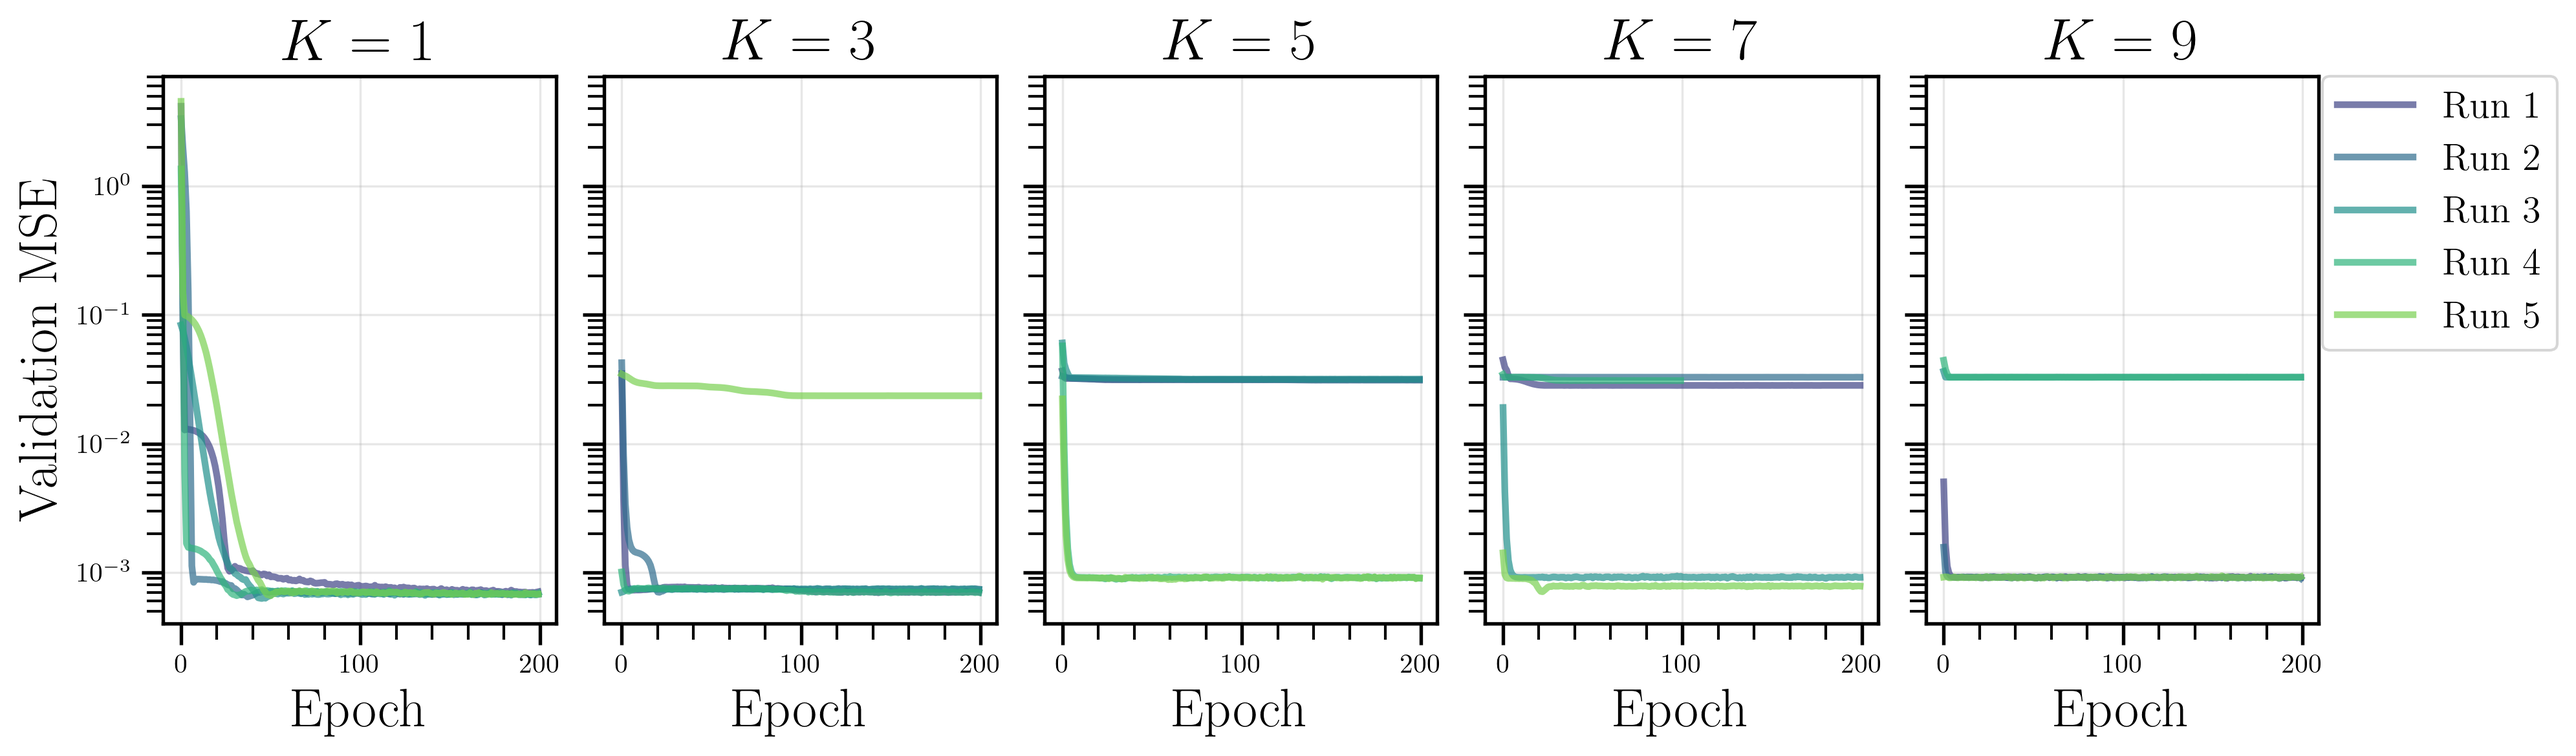
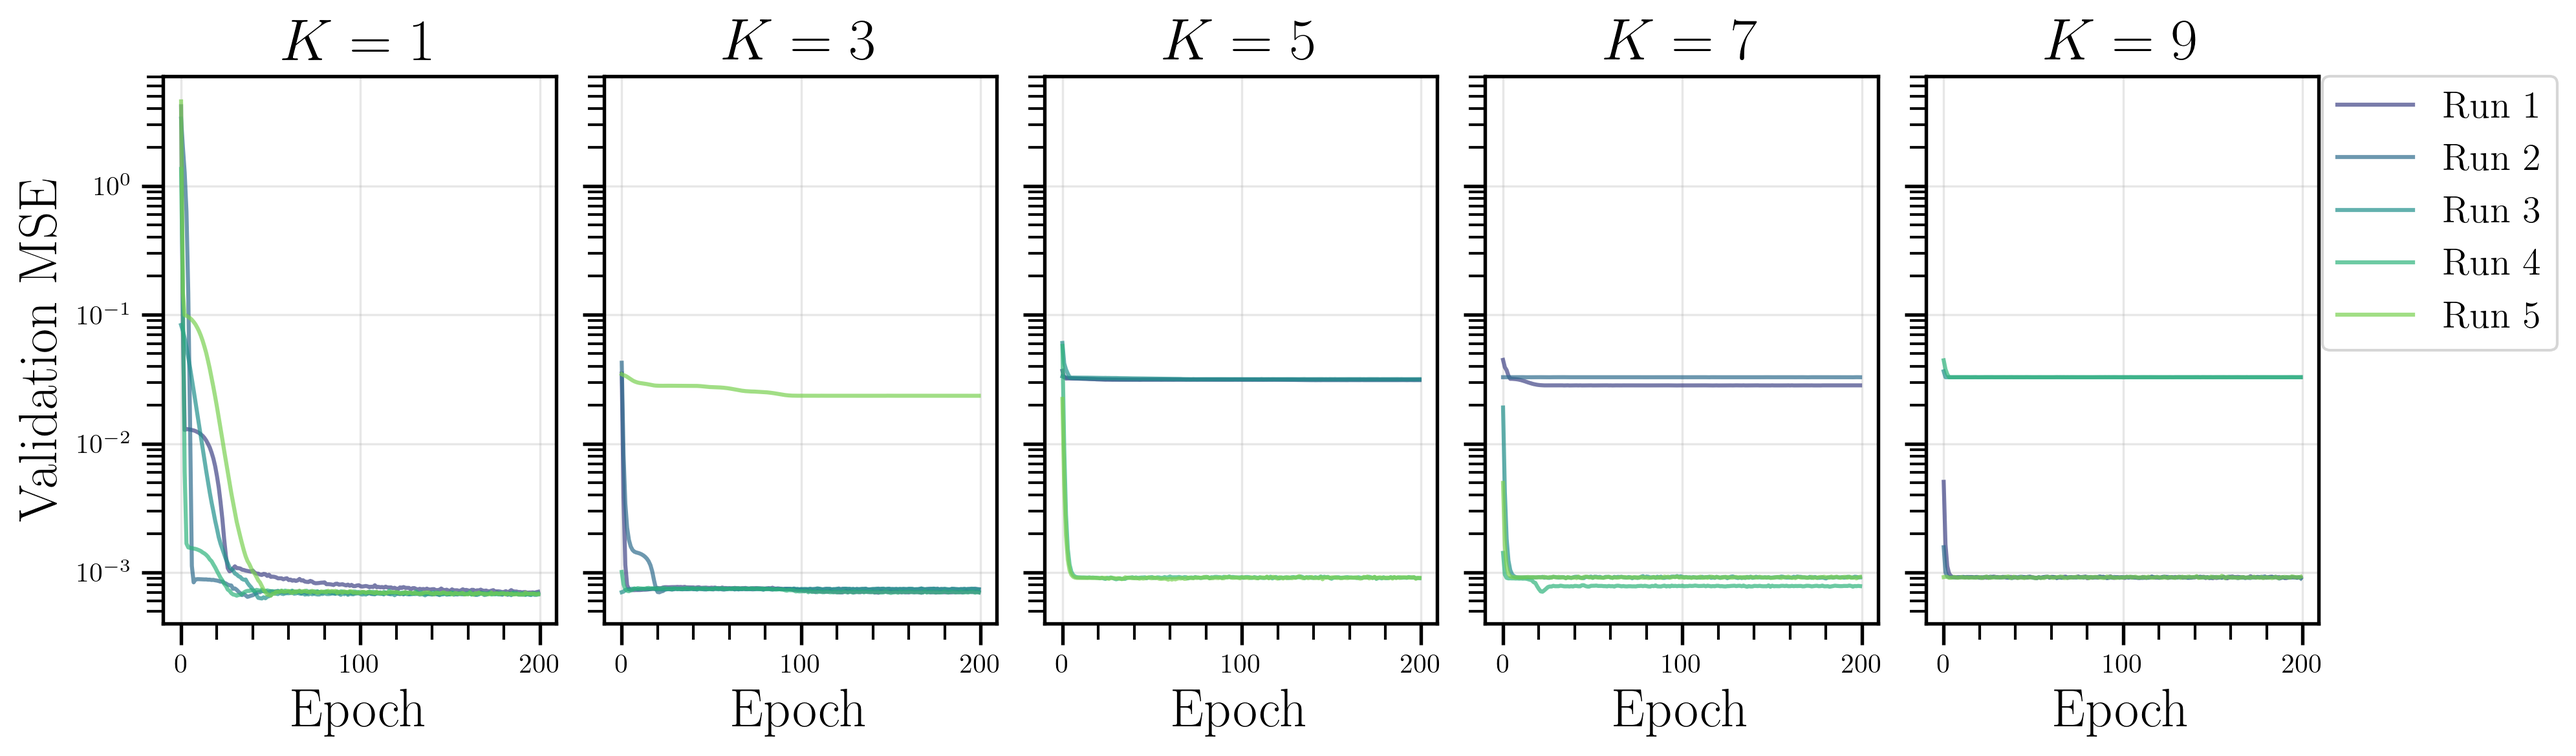
luisa did not bother writing a commit message

diff --git a/rebuttal/truncation/aggregate.py b/rebuttal/truncation/aggregate.py
@@ -56,6 +56,7 @@ def save_metrics_table(runs, model_types, model_labels, save_dir):
 
     rows = []
     for model_type, label in zip(model_types, model_labels):
+            
         val_mse_list = load_metric_from_runs(runs[model_type], "val_mse")
         rayleigh_list = load_metric_from_runs(
             runs[model_type], "val_rayleigh_xprime")
@@ -183,7 +184,7 @@ def main():
                 np.arange(num_epochs),
                 mse,
                 color=colors[i % len(colors)],
-                linewidth=2.5,
+                linewidth=1.5,
                 alpha=0.7,
                 label=f"Run {i+1}"
             )
@@ -223,7 +224,7 @@ def main():
                 np.arange(num_epochs),
                 best_rayleigh_curve,
                 color=color,
-                linewidth=4.5,
+                linewidth=2.5,
                 alpha=0.9,
                 label=label
             )
@@ -235,7 +236,7 @@ def main():
             np.arange(num_epochs),
             val_rayleigh_x,
             color='gray',
-            linewidth=4.5,
+            linewidth=2.5,
             alpha=0.7,
             linestyle='--',
             label=r"$\overline{R_{\mathcal{G}}(X)}$"
@@ -247,7 +248,7 @@ def main():
             np.arange(num_epochs),
             val_rayleigh_y,
             color='red',
-            linewidth=4.5,
+            linewidth=2.5,
             alpha=0.7,
             linestyle='--',
             label=r"$\overline{R_{\mathcal{G}}(Y)}$"
@@ -273,7 +274,7 @@ def main():
             np.arange(num_epochs),
             best_mse,
             color=color,
-            linewidth=4.5,
+            linewidth=2.5,
             alpha=0.9,
             label=label
         )
